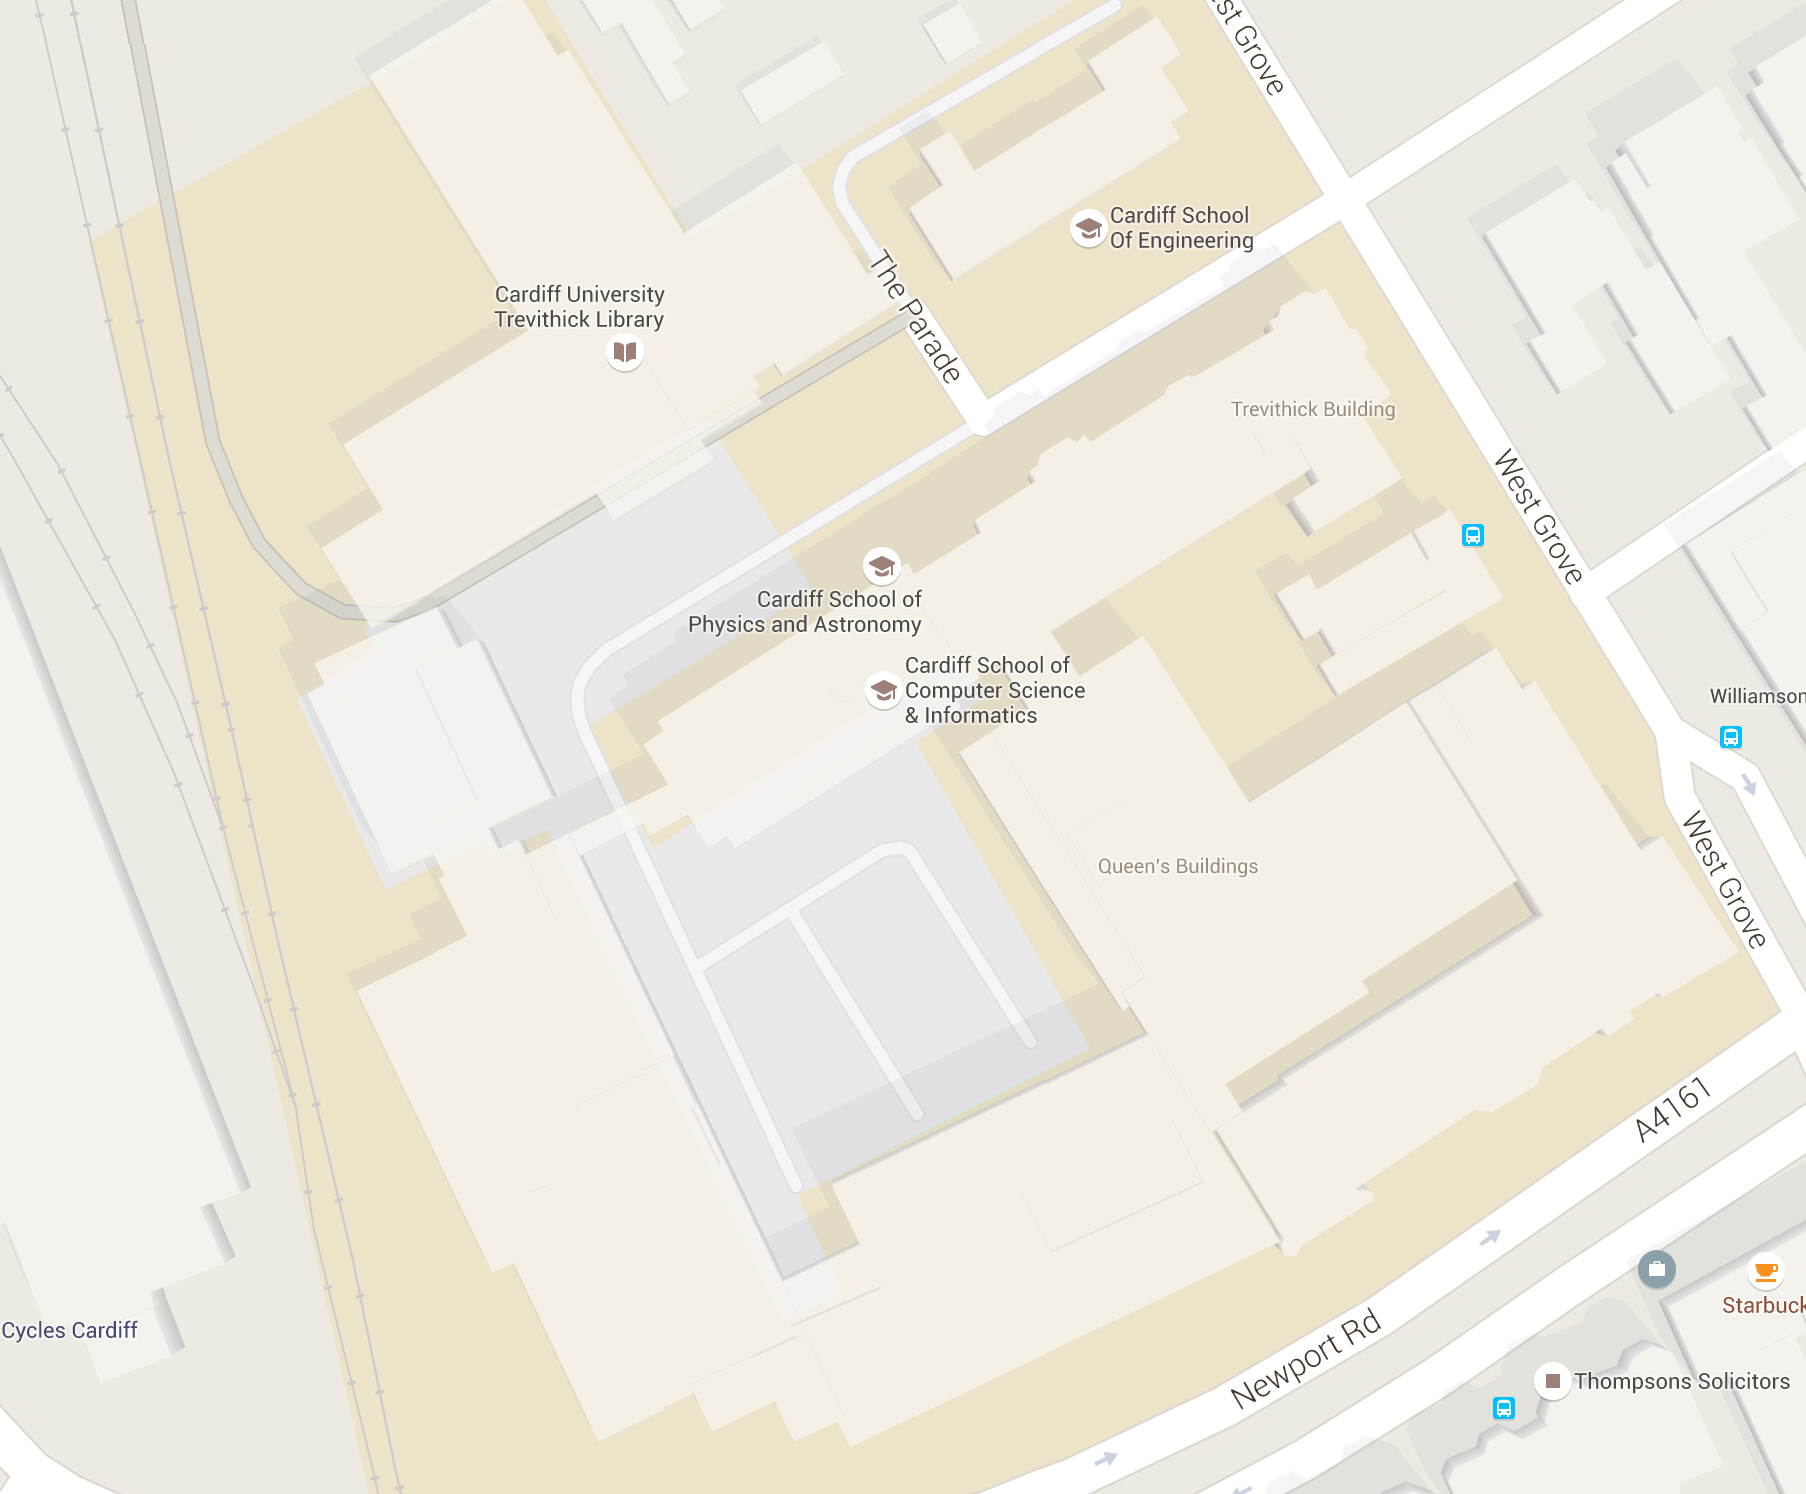
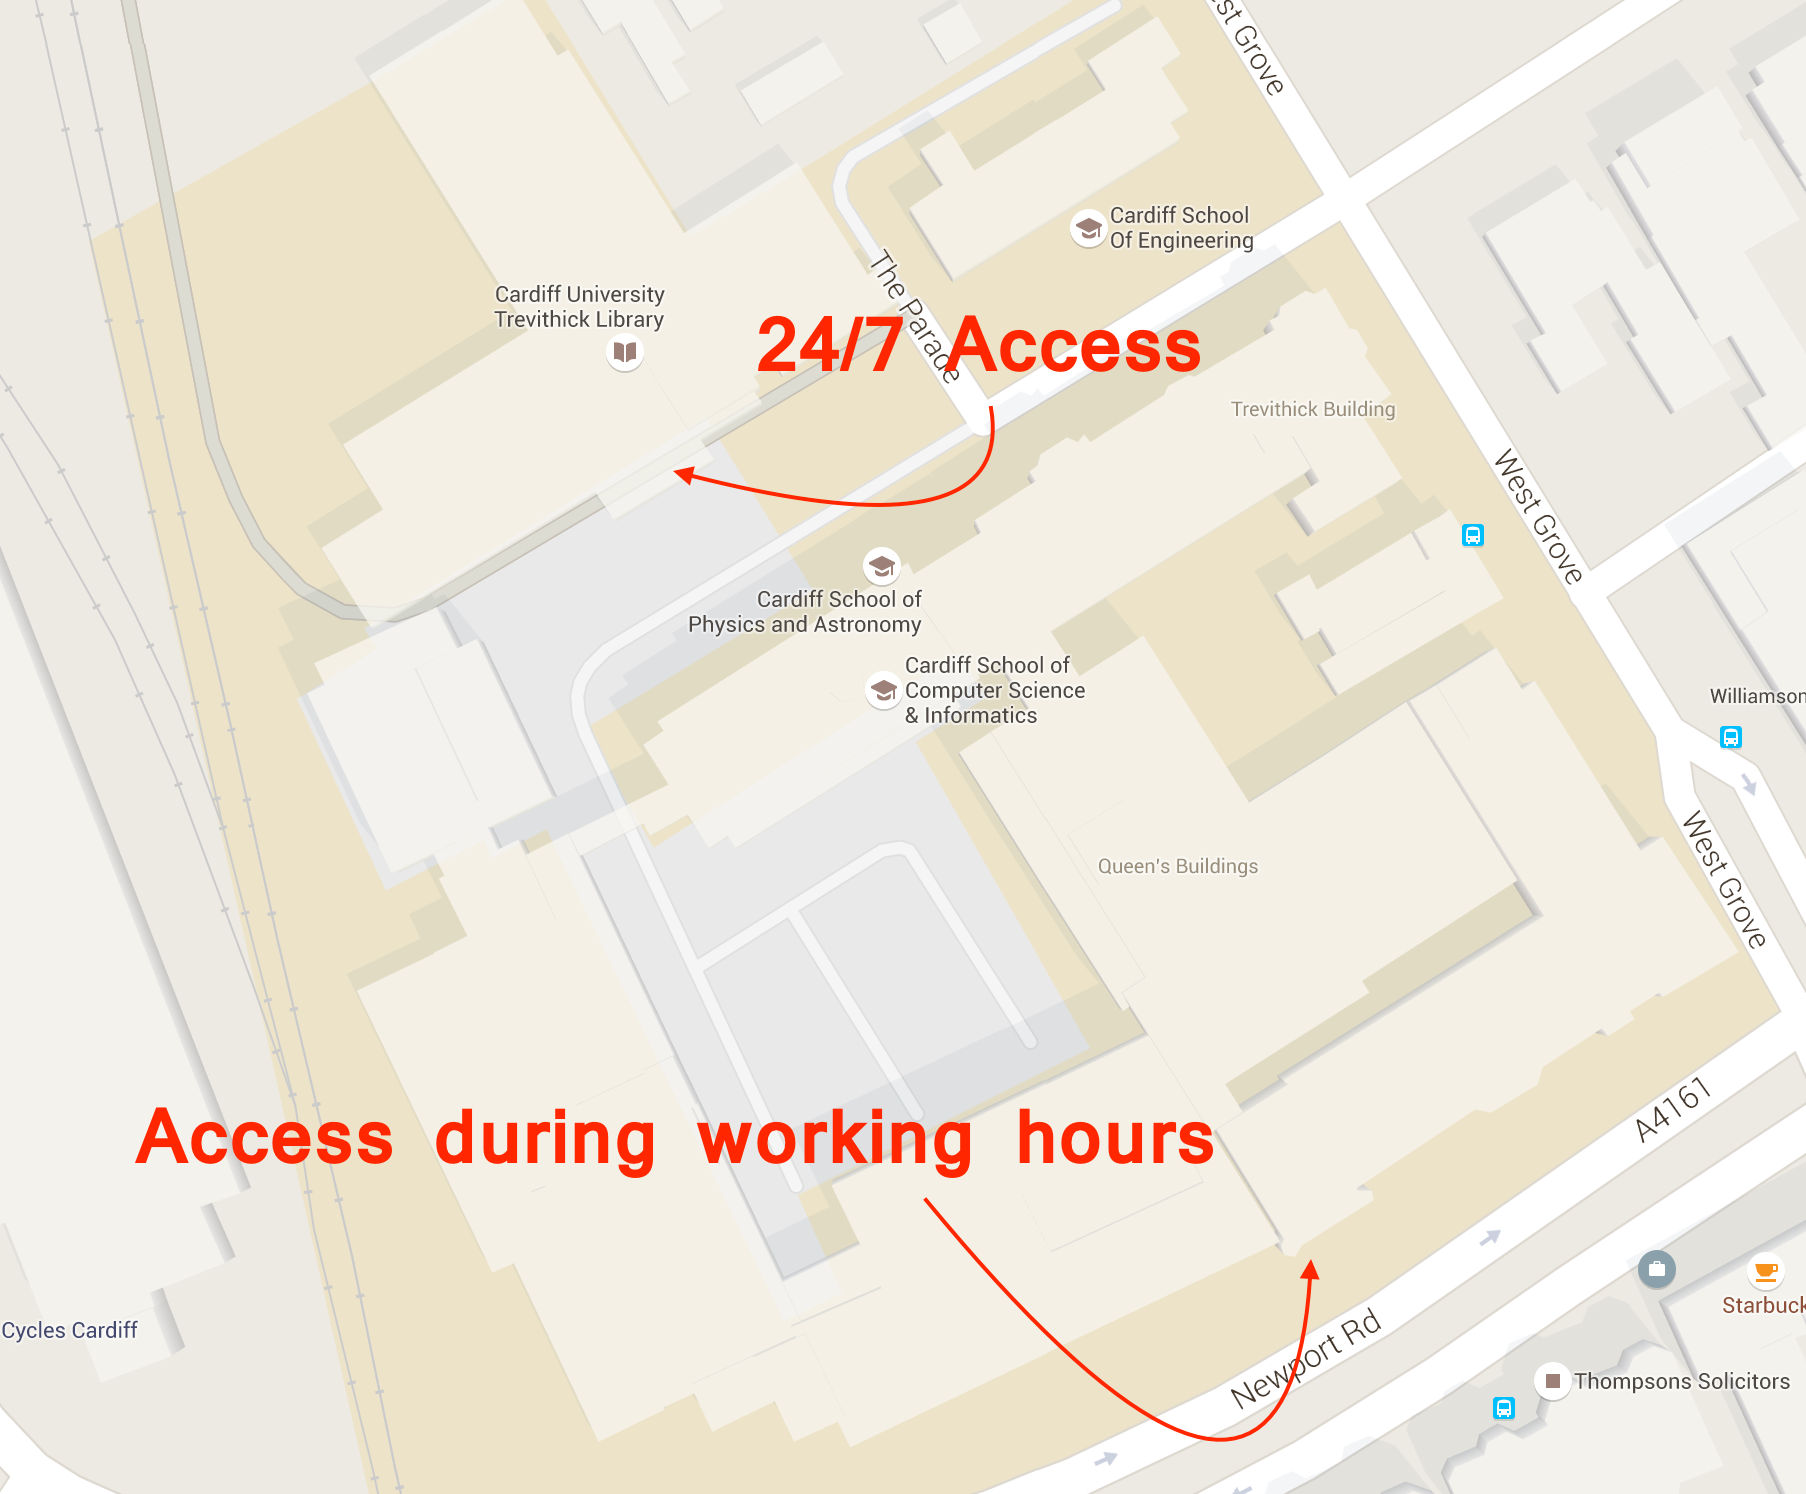
sims!

diff --git a/index.html b/index.html
@@ -688,6 +688,12 @@
                         Newport Road entrance
                     </aside>
                 </section>
+
+                <section data-background-image='img/sims.png' data-background-size='contain'>
+                    <div class="attribution">
+                        <p>sims.cf.ac.uk</p>
+                    </div>
+                </section>
 			</div>
 
 
